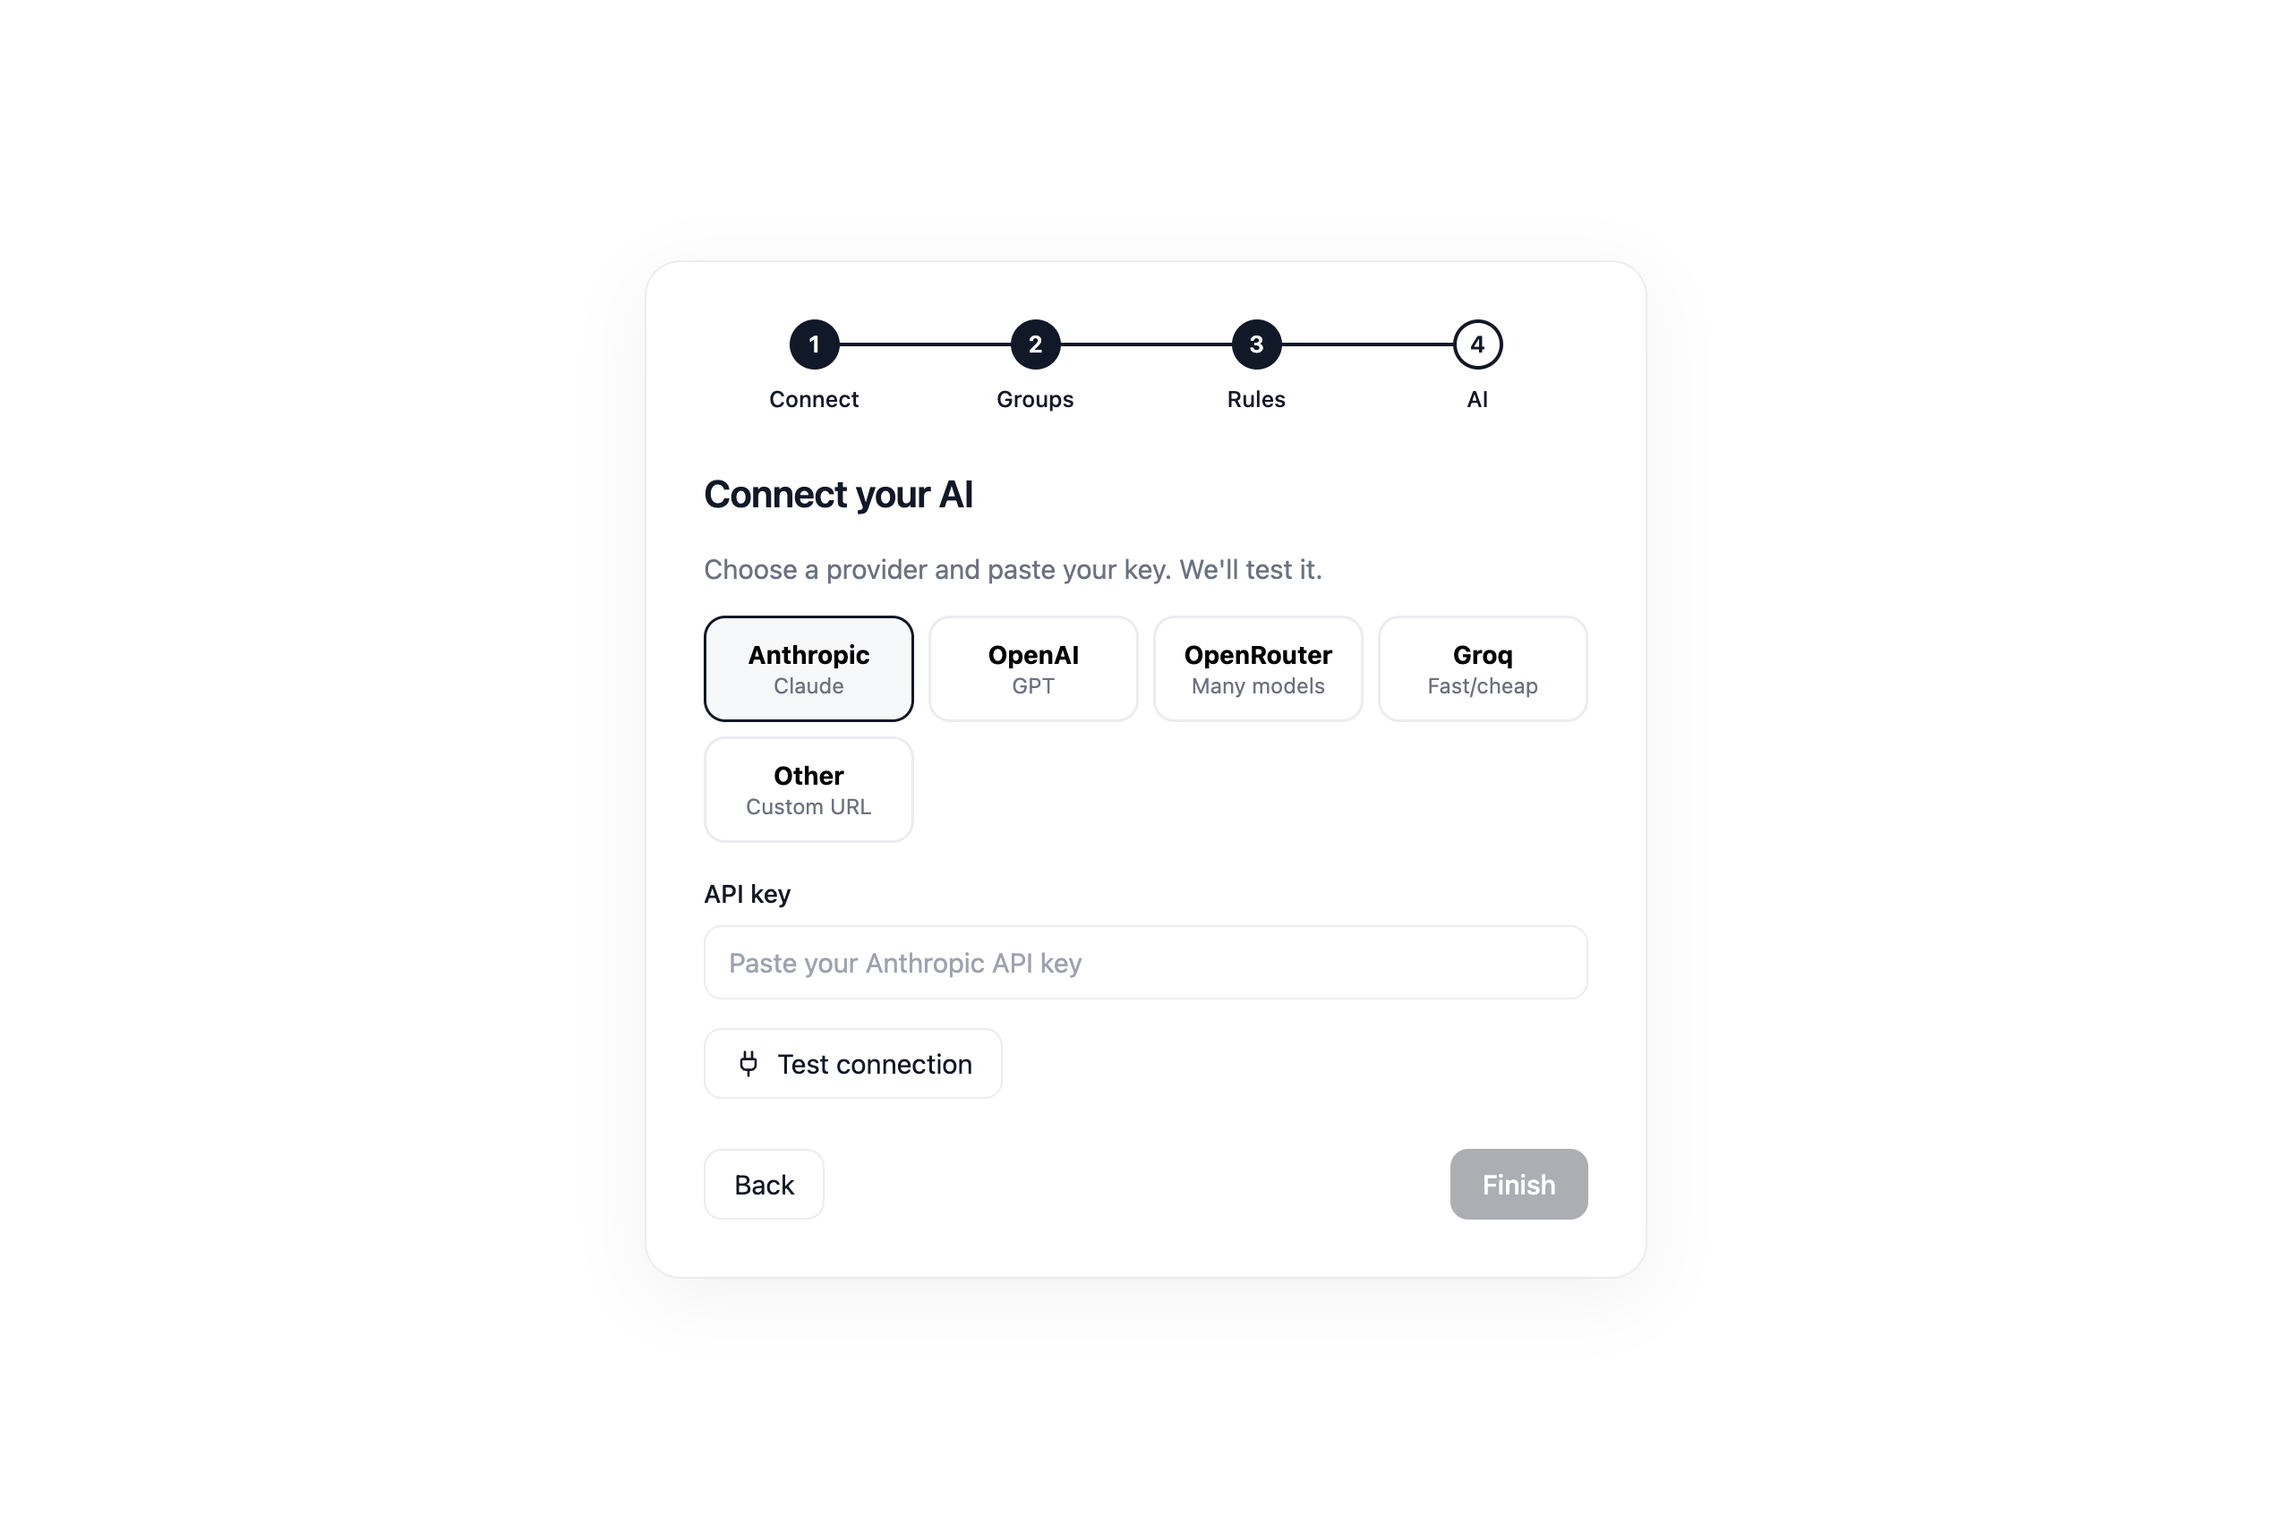
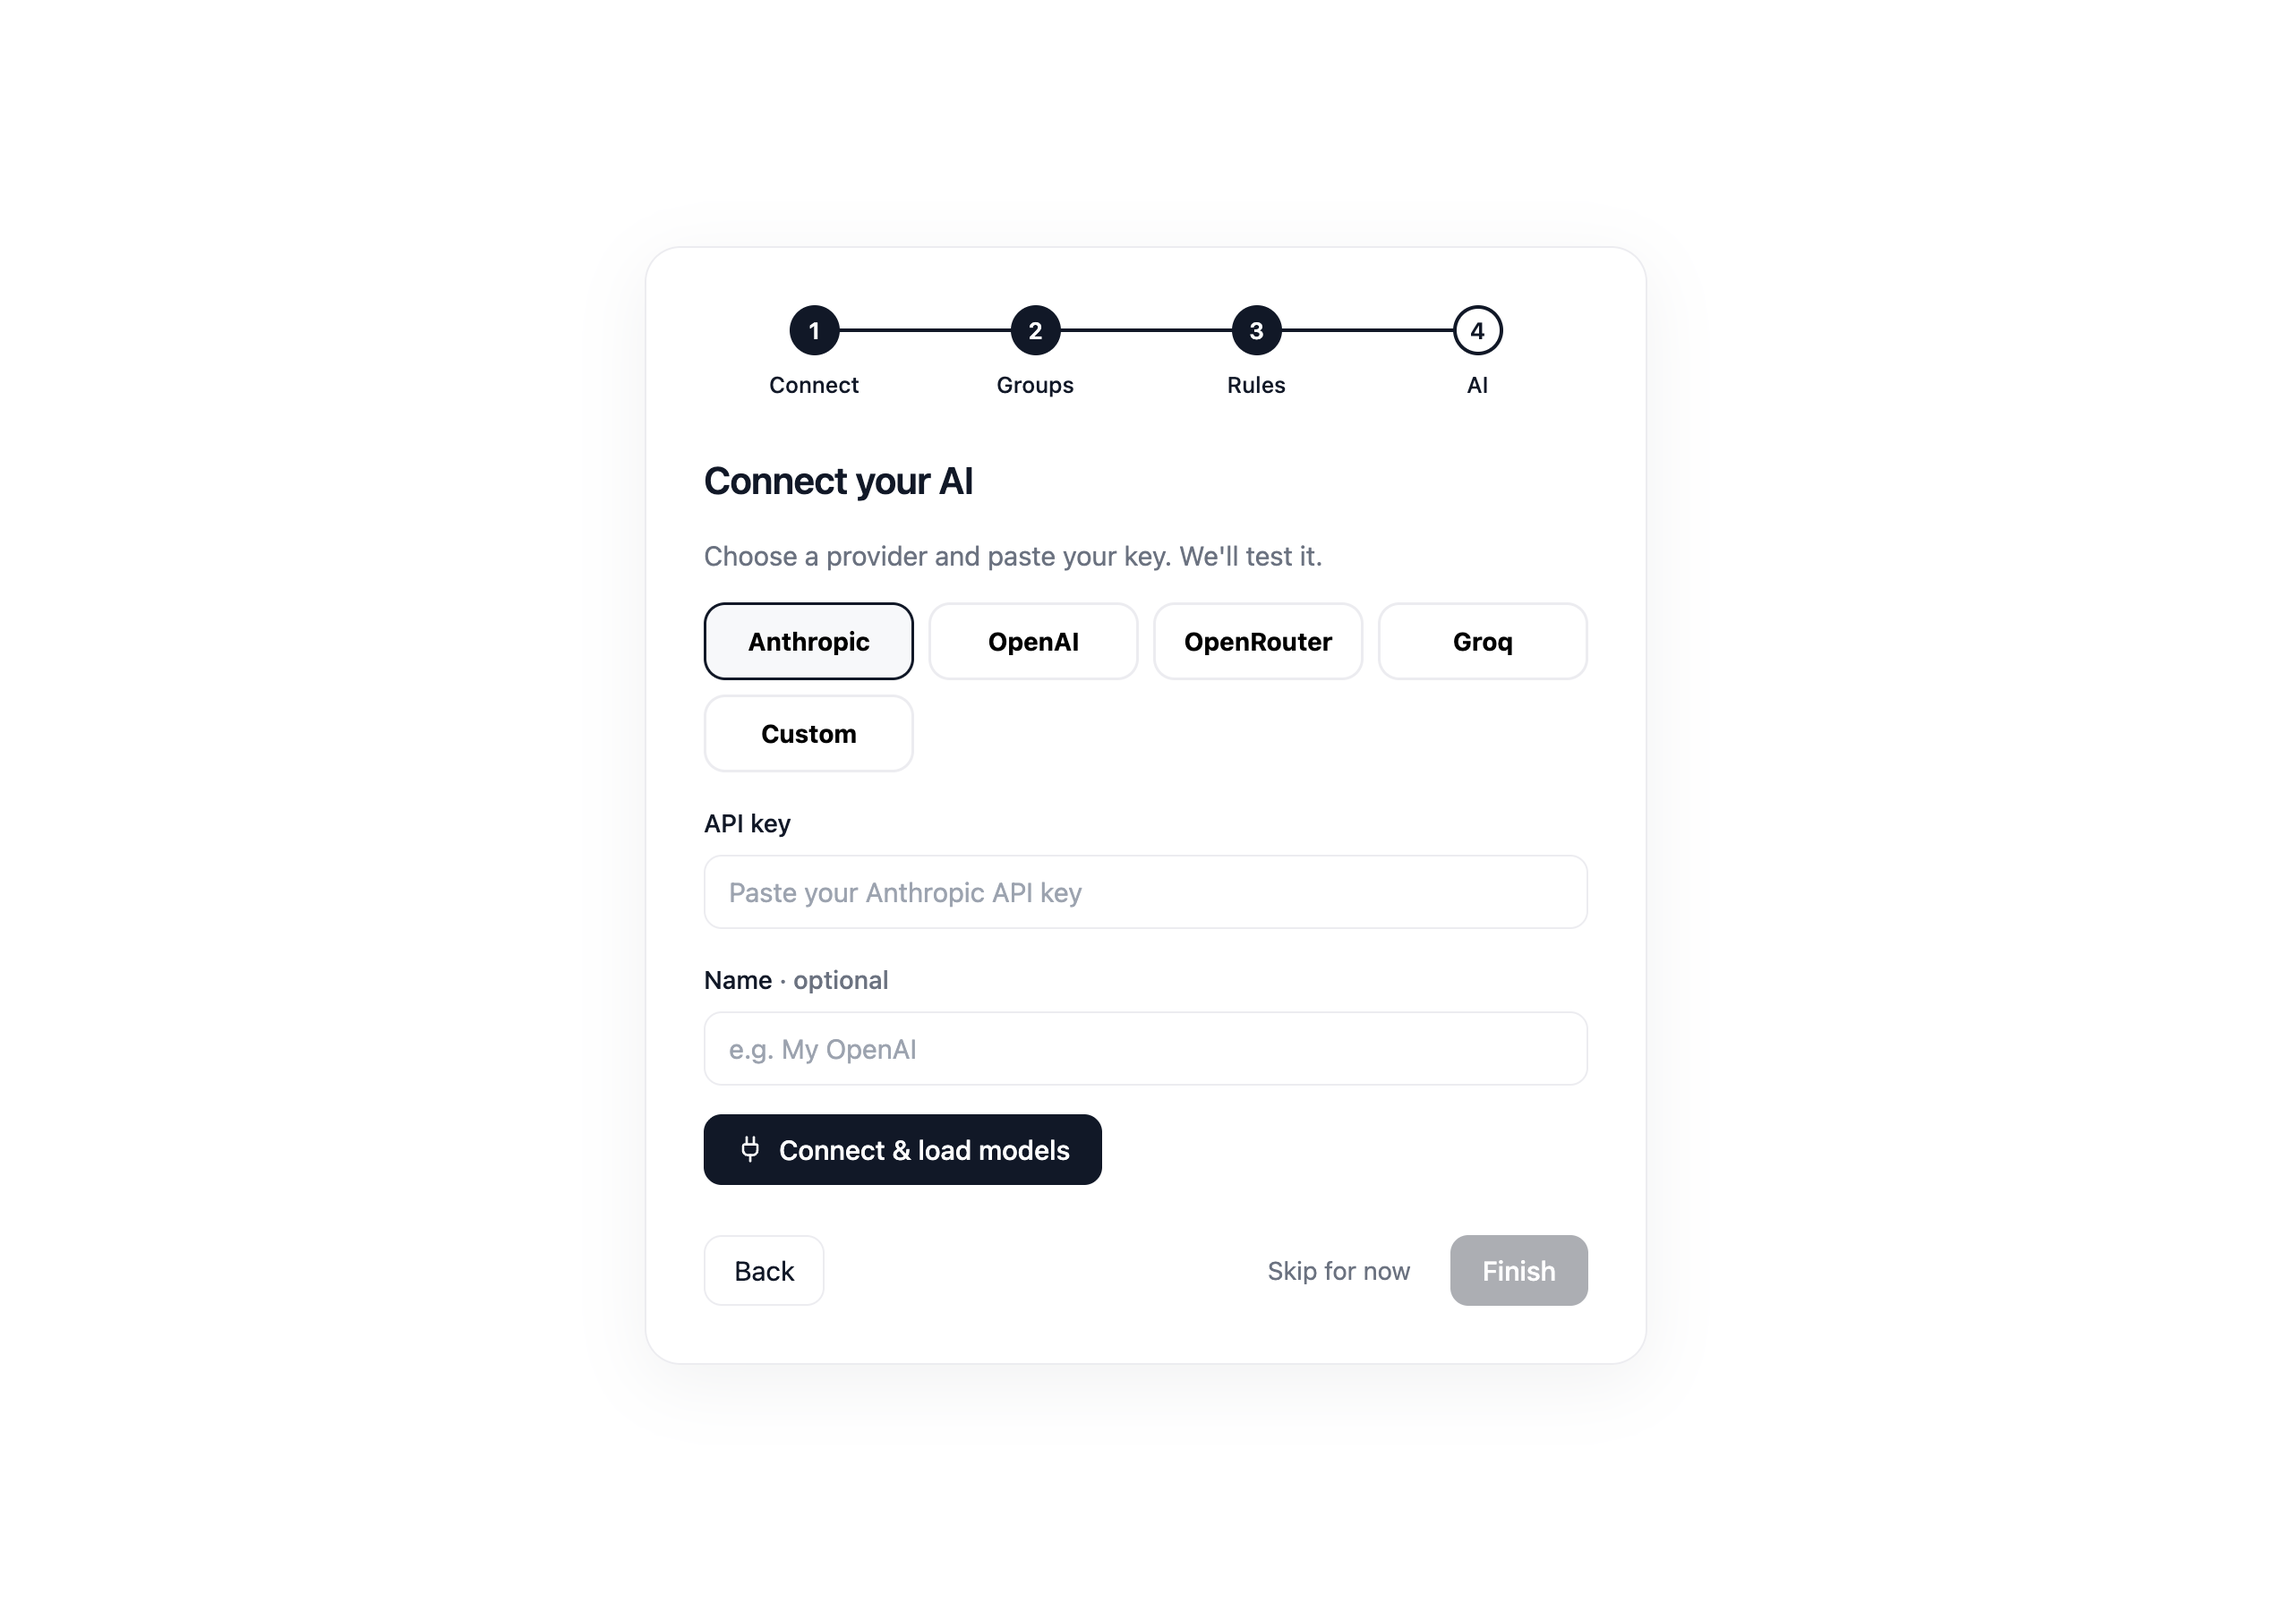
docs: complete 4-step onboarding walkthrough (adds choose-groups step) + agent scope/tools shots

diff --git a/docs/DEPLOY_FLOWENGINE.md b/docs/DEPLOY_FLOWENGINE.md
@@ -45,12 +45,27 @@ Skip them all and set your AI provider from **Settings** in the app after deploy
 
 ## Connect
 
-1. Open your app URL and **create your account** (first visit lets you choose a username + password).
+Open your app URL and **create your account** (first visit lets you choose a username + password), then the setup wizard walks you through four steps:
 
-   ![Sign up](images/signup.png)
+**1. Connect** — scan the QR with your burner number (WhatsApp → **Linked devices** → **Link a device**).
 
-2. On **Connect**, scan the QR with your burner number: WhatsApp → **Linked devices** → **Link a device**.
-3. Pick your groups, turn on **Spam Moderator**, **Gatekeeper**, and/or **Daily Digest**. Done.
+![Connect](images/onboarding-connect.png)
+
+**2. Choose groups** — toggle on the groups WPBot should watch. It never touches a group you didn't switch on.
+
+![Choose groups](images/onboarding-groups.png)
+
+**3. Add agents** — pick Spam Moderator, Gatekeeper, and/or Daily Digest. Each is a template you can tweak.
+
+![Add agents](images/onboarding-rules.png)
+
+**4. Connect AI** — choose a provider and paste a key; models are fetched live from the provider (nothing hardcoded). You can skip and set this in **Settings** later.
+
+![Connect AI](images/onboarding-ai.png)
+
+Every agent can run across **all monitored groups** or be scoped to **one group** — and you pick exactly which tools it may use (reply, delete, remove, approve/reject joiners):
+
+![Agent builder](images/agent-builder.png)
 
 ## Keeping the session alive
 
